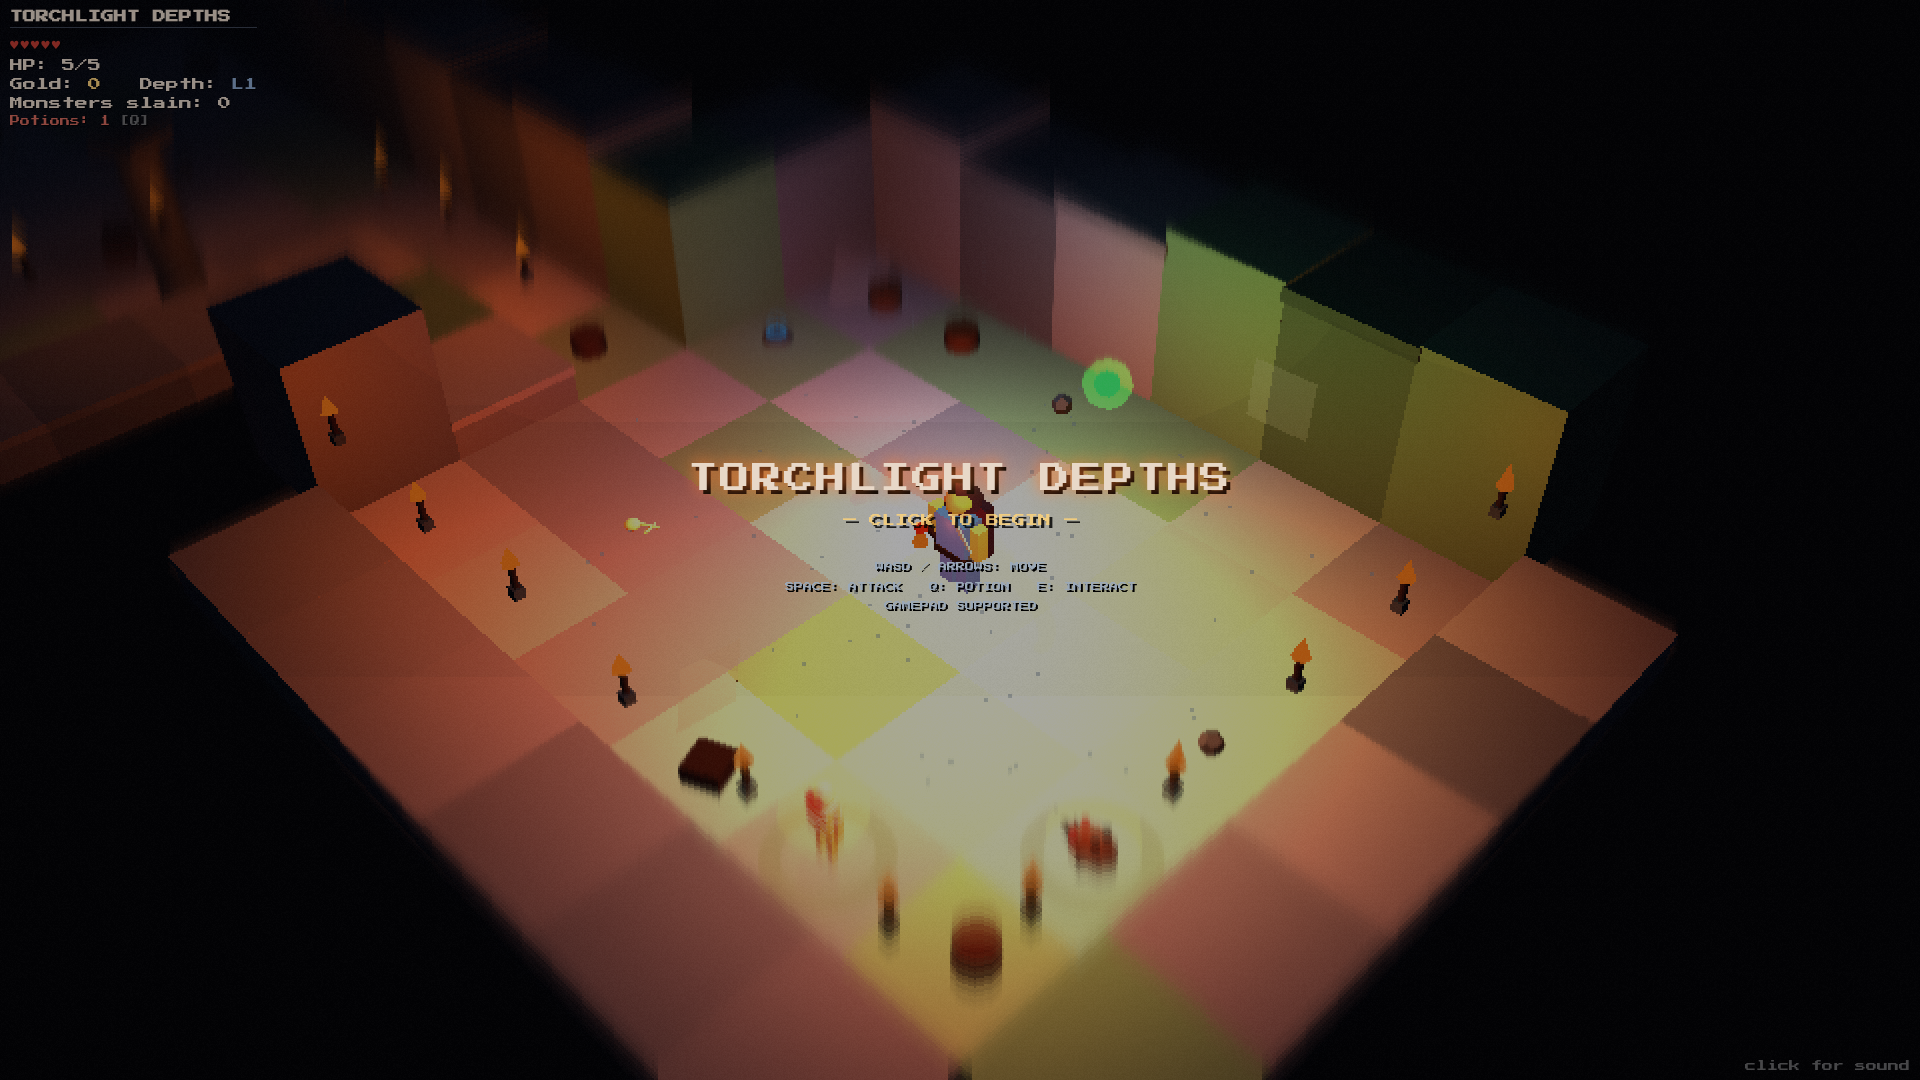
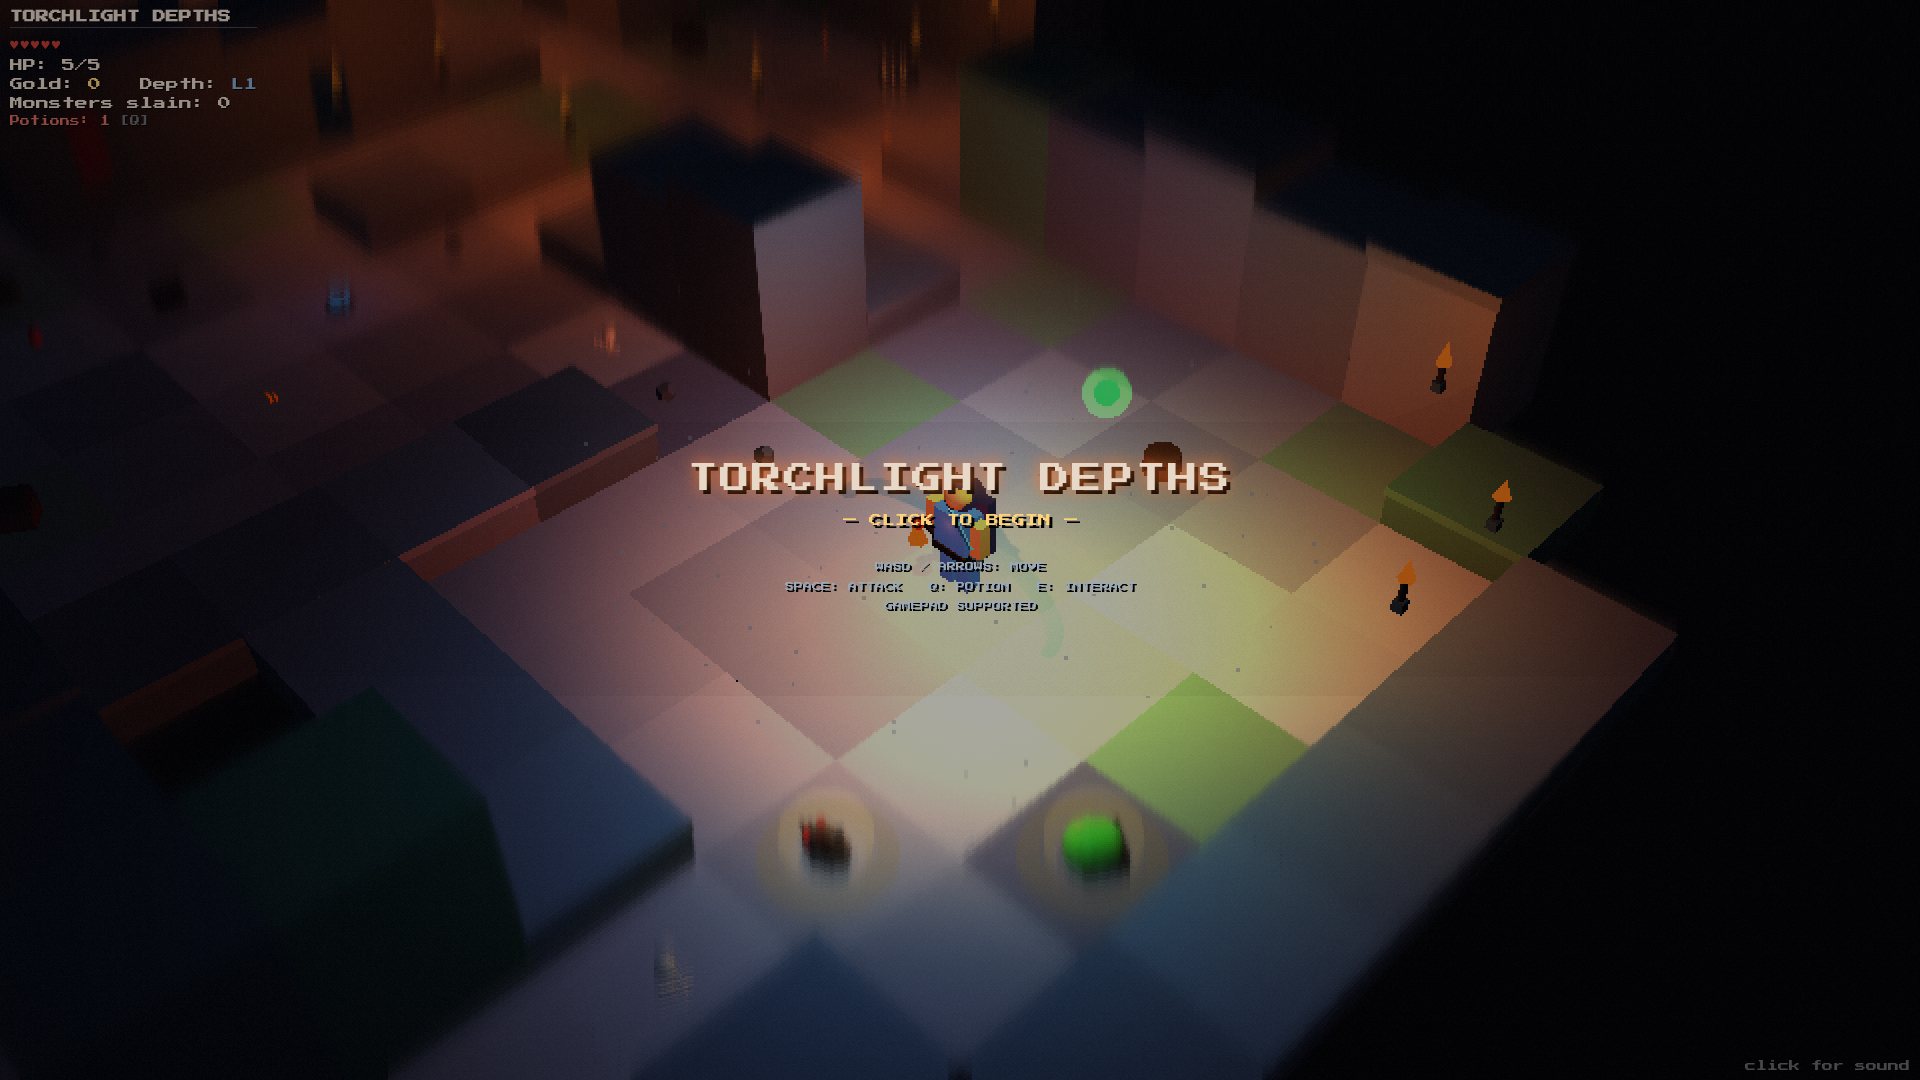
Visual proof hardening: double-band hostile reticle rings, red-lit hostiles, cooler hero cloak, capture tiering
- Hostile glows: red point light raised 3.4 -> 4.6 (hostile bodies read red-lit),
  ring opacity 0.64 plus a NEW inner concentric band (r*0.82-1.0 at 0.8x opacity)
  so the floor marker reads as a target reticle around the actual creature; ring
  retint + rescale on yellow->red flip via GLOW_STYLES (yellow stays subtle 0.18)
- Hero: cloak emissive cool-lined (0x2a1620 -> 0x2c4066) and scale 1.5 -> 1.6 so
  the biggest visible surface no longer drowns in torch warmth
- verify.mjs: hostile-proof capture tiered (big kinds skeleton/slime/boss near
  frame centre capture first; rats - tiny, prone to foreground occlusion - get
  timed fallbacks; hostile screen proximity band tightened to x 500-1420 since
  hostiles flip only within 6 world units of the hero)
- gates green twice; committed proof frames vision-verified 8/10 and 8/10+
  (hero rim visible, wisp unmistakably green, hostile ring distinctly red)

diff --git a/index.html b/index.html
@@ -249,7 +249,7 @@ const emberMat = new THREE.MeshLambertMaterial({
 // fully tintable through the same style table.
 const GLOW_RED = 0xd8402f, GLOW_YELLOW = 0xd8c23a, GLOW_GREEN = 0x4fce62;
 const GLOW_STYLES = {};
-GLOW_STYLES[GLOW_RED]    = { haloOpacity: 0.55, haloScale: 1.38, ringOpacity: 0.56, lightIntensity: 3.4, lightDistance: 9.0 };
+GLOW_STYLES[GLOW_RED]    = { haloOpacity: 0.55, haloScale: 1.38, ringOpacity: 0.64, lightIntensity: 4.6, lightDistance: 10.0 };
 GLOW_STYLES[GLOW_YELLOW] = { haloOpacity: 0.16, haloScale: 1.0,  ringOpacity: 0.18, lightIntensity: 0.8, lightDistance: 6.5 };
 GLOW_STYLES[GLOW_GREEN]  = { haloOpacity: 0.30, haloScale: 1.0,  ringOpacity: 0.30, lightIntensity: 1.5, lightDistance: 7.0 };
 function applyGlowStyle(group, colorHex) {
@@ -269,6 +269,12 @@ function applyGlowStyle(group, colorHex) {
     ring.material.opacity = st.ringOpacity;
     ring.scale.setScalar(ring.userData.baseScale * st.haloScale);
   }
+  if (group.userData.glowRingIn) {
+    const ringIn = group.userData.glowRingIn;
+    if (ringIn.userData.baseScale === undefined) ringIn.userData.baseScale = ringIn.scale.x;
+    ringIn.material.opacity = st.ringOpacity * 0.8;
+    ringIn.scale.setScalar(ringIn.userData.baseScale * st.haloScale);
+  }
   if (group.userData.glowLight) {
     group.userData.glowLight.intensity = st.lightIntensity;
     group.userData.glowLight.distance = st.lightDistance;
@@ -281,16 +287,22 @@ function addFactionGlow(group, colorHex, y, r) {
     new THREE.MeshBasicMaterial({ color: colorHex, transparent: true, opacity: st.haloOpacity, blending: THREE.AdditiveBlending, depthWrite: false, side: THREE.BackSide }));
   halo.position.y = y;
   const ring = new THREE.Mesh(
-    new THREE.RingGeometry(r * 1.02, r * 1.5, 26),
+    new THREE.RingGeometry(r * 1.04, r * 1.5, 26),
     new THREE.MeshBasicMaterial({ color: colorHex, transparent: true, opacity: st.ringOpacity, blending: THREE.NormalBlending, depthWrite: false, side: THREE.DoubleSide }));
   ring.rotation.x = -Math.PI / 2;
   ring.position.y = 0.07;
+  const ringIn = new THREE.Mesh(
+    new THREE.RingGeometry(r * 0.82, r * 1.0, 22),
+    new THREE.MeshBasicMaterial({ color: colorHex, transparent: true, opacity: st.ringOpacity * 0.8, blending: THREE.NormalBlending, depthWrite: false, side: THREE.DoubleSide }));
+  ringIn.rotation.x = -Math.PI / 2;
+  ringIn.position.y = 0.06;
   const glow = new THREE.PointLight(colorHex, st.lightIntensity, st.lightDistance, 1.8);
   glow.userData.tlTag = 'faction';
   glow.position.y = y;
-  group.add(halo, ring, glow);
+  group.add(halo, ring, ringIn, glow);
   group.userData.glowHalo = halo;
   group.userData.glowRing = ring;
+  group.userData.glowRingIn = ringIn;
   group.userData.glowLight = glow;
   group.userData.glowColor = colorHex;
   applyGlowStyle(group, colorHex);
@@ -298,6 +310,7 @@ function addFactionGlow(group, colorHex, y, r) {
 function setFactionGlow(group, colorHex) {
   if (group.userData.glowHalo) group.userData.glowHalo.material.color.setHex(colorHex);
   if (group.userData.glowRing) group.userData.glowRing.material.color.setHex(colorHex);
+  if (group.userData.glowRingIn) group.userData.glowRingIn.material.color.setHex(colorHex);
   if (group.userData.glowLight) group.userData.glowLight.color.setHex(colorHex);
   group.userData.glowColor = colorHex;
   applyGlowStyle(group, colorHex);
@@ -632,7 +645,7 @@ function buildHero() {
   const g = hero.group;
   const skin = new THREE.MeshLambertMaterial({ color: 0xc79a6b, emissive: 0x5a3a1e });
   const armor = new THREE.MeshLambertMaterial({ color: 0x5a6068, emissive: 0x6486bd });
-  const cloak = new THREE.MeshLambertMaterial({ color: 0x4a2a38, emissive: 0x2a1620, side: THREE.DoubleSide });
+  const cloak = new THREE.MeshLambertMaterial({ color: 0x4a2a38, emissive: 0x2c4066, side: THREE.DoubleSide });
   hero.legL = new THREE.Mesh(new THREE.BoxGeometry(0.13, 0.34, 0.15), armor); hero.legL.position.set(-0.09, 0.32, 0);
   hero.legR = new THREE.Mesh(new THREE.BoxGeometry(0.13, 0.34, 0.15), armor); hero.legR.position.set(0.09, 0.32, 0);
   const torso = new THREE.Mesh(new THREE.BoxGeometry(0.34, 0.4, 0.24), armor); torso.position.y = 0.68;
@@ -674,7 +687,7 @@ function buildHero() {
   g.add(hero.slashArc);
   g.add(hero.legL, hero.legR, torso, belt, cape, head, hood, hero.armL, hero.armR);
   // larger, more readable at viewing distance
-  g.scale.setScalar(1.5);
+  g.scale.setScalar(1.6);
   g.traverse(o => { if (o.isMesh) o.castShadow = true; });
 }
 buildHero();
